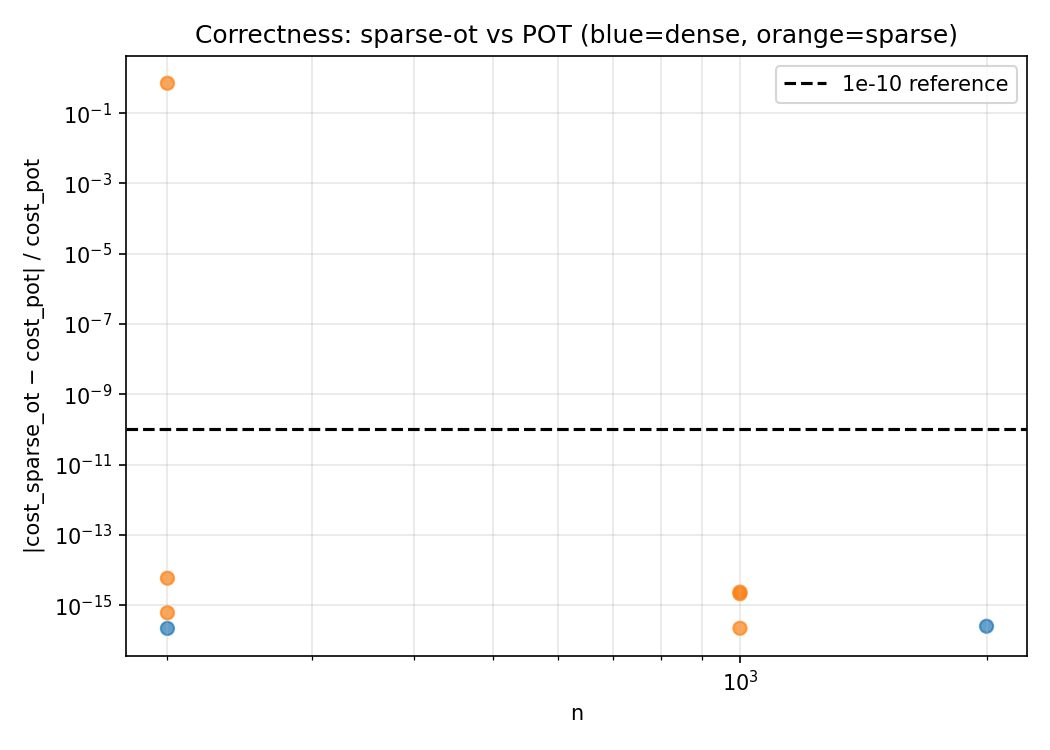
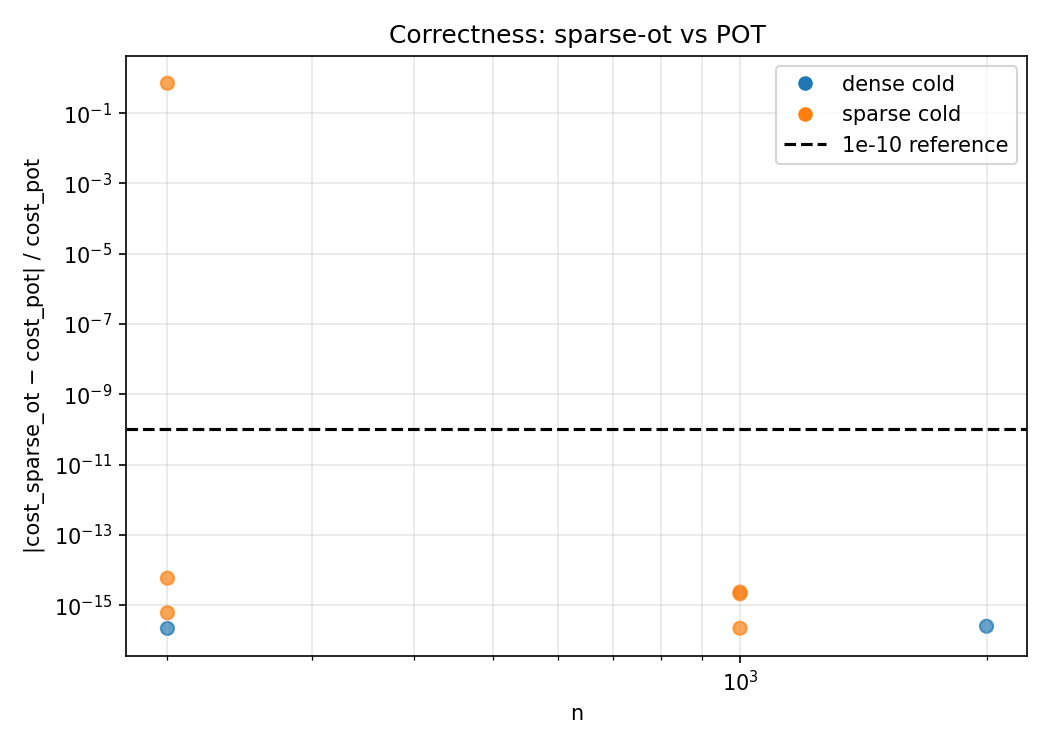
fix(report): add legend to accuracy figure
Scatter points had no legend entries — only the axhline appeared.
Now adds proxy Line2D handles for dense cold (blue) and sparse cold
(orange) series alongside the 1e-10 reference line. Also removes the
redundant color annotation from the title.

Changed region(s): [[0.7314, 0.092, 0.9752, 0.2147], [0.1829, 0.0307, 0.9143, 0.0613], [0.7314, 0.184, 0.7619, 0.2147]]

diff --git a/benchmarks/report.py b/benchmarks/report.py
@@ -397,8 +397,17 @@ def fig_accuracy(cells: list, figures_dir: Path) -> None:
     ax.set_yscale("log")
     ax.set_xlabel("n")
     ax.set_ylabel("|cost_sparse_ot − cost_pot| / cost_pot")
-    ax.set_title("Correctness: sparse-ot vs POT (blue=dense, orange=sparse)")
-    ax.legend()
+    ax.set_title("Correctness: sparse-ot vs POT")
+
+    from matplotlib.lines import Line2D
+    legend_handles = [
+        Line2D([0], [0], marker="o", color="w", markerfacecolor="tab:blue",
+               markersize=8, label="dense cold"),
+        Line2D([0], [0], marker="o", color="w", markerfacecolor="tab:orange",
+               markersize=8, label="sparse cold"),
+        Line2D([0], [0], color="k", linestyle="--", label="1e-10 reference"),
+    ]
+    ax.legend(handles=legend_handles)
     ax.grid(True, which="both", alpha=0.3)
     fig.tight_layout()
     fig.savefig(out_path, dpi=150)
